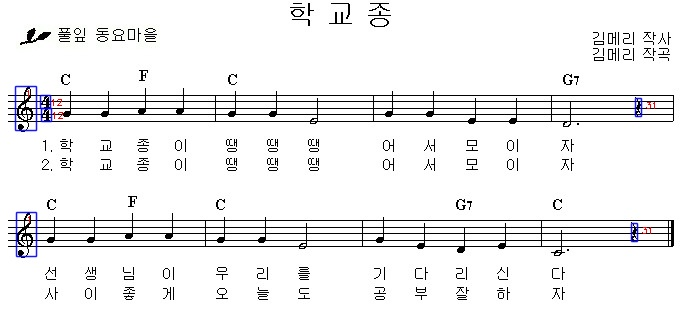
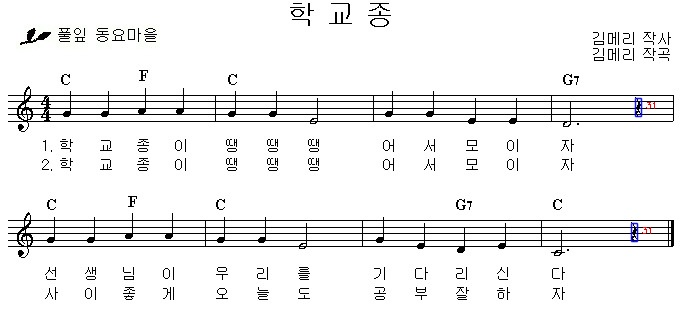
fix: rest label and duration not matching

Changed region(s): [[0.0, 0.2462, 0.0925, 0.4308], [0.0, 0.6462, 0.0617, 0.8]]

diff --git a/model/postprocess.py b/model/postprocess.py
@@ -67,7 +67,7 @@ beats = beat_detection(merged_flag_dot, rest, noise_removed_note_pos, original)
 
 
 ## combine note heads & rest info 
-combined = note_pos + rest
+combined = noise_removed_note_pos + rest
 combined.sort(key=lambda x: (x[0], x[1][1]))
 
 n = []
@@ -92,7 +92,7 @@ for i in range(len(beats)):
 
 
 ## pitch detection 
-pitches = pitch_detection_only_G(noise_removed_note_pos, staff_line, flat=False, original=original, viz=True) 
+pitches = pitch_detection_only_G(combined, staff_line, flat=False, original=original, viz=True) 
 # pitches = [which, [label, x, y, w, h], pitch]
 
 
@@ -102,6 +102,8 @@ pitches_sfn = sfn_detection(sharp, flat, natural, pitches, original)
 
 for i, p in enumerate(pitches_sfn): 
     pos_pitch, key_sign = p 
+    if pos_pitch[1] == 'rest': 
+        continue 
     n[i].pitch = pos_pitch[1]
     if key_sign == 'sharp': 
         n[i].sharp = True 
@@ -110,13 +112,13 @@ for i, p in enumerate(pitches_sfn):
 
 
 for i in range(len(n)): 
-    print(n[i].staff)
+    # print(n[i].staff)
     print(n[i].label)
-    print(n[i].bbox)
+    # print(n[i].bbox)
     print(n[i].pitch)
-    print(n[i].sharp)
-    print(n[i].flat)
-    print(n[i].natural) 
+    # print(n[i].sharp)
+    # print(n[i].flat)
+    # print(n[i].natural) 
     print(n[i].duration)
     print(n[i].measure) 
     print('\n')

diff --git a/model/conversion_oneline.py b/model/conversion_oneline.py
@@ -131,9 +131,9 @@ def conversion_oneline(mode, label_file, img_path, staff_line):
             if label == '31':
                 rest.append(['rest', x, y, w, h])
             
-            cv2.rectangle(img, (x, y), (x+w, y+h), (255, 0, 0), 1, cv2.LINE_AA)
-            cv2.putText(img, label, (x+10, y+10), 
-                        cv2.FONT_HERSHEY_SIMPLEX, 0.3, (0, 0, 255), 1)
+                cv2.rectangle(img, (x, y), (x+w, y+h), (255, 0, 0), 1, cv2.LINE_AA)
+                cv2.putText(img, label, (x+10, y+10), 
+                            cv2.FONT_HERSHEY_SIMPLEX, 0.3, (0, 0, 255), 1)
             
         cv2.imwrite('conversion_rest.jpg', img)
 

diff --git a/model/pitch_detection_only_G.py b/model/pitch_detection_only_G.py
@@ -60,6 +60,10 @@ def choose_note(staff_line, which, head, flat=False, _margin=None):
     which, pos = head
     label, x, y, w, h = pos[0], pos[1], pos[2], pos[3], pos[4]
 
+    if label == 'rest': 
+        result.append([head, '']) 
+        return result 
+    
     if flat: 
         y += 5
         h -= 5 

diff --git a/model/beat_detection.py b/model/beat_detection.py
@@ -104,3 +104,5 @@ def check_beat(symbols, h_label, h_which, h_x, h_y, h_w, h_h):
                 
     if len(b) == 0:
         return False
+    else: 
+        return b 
